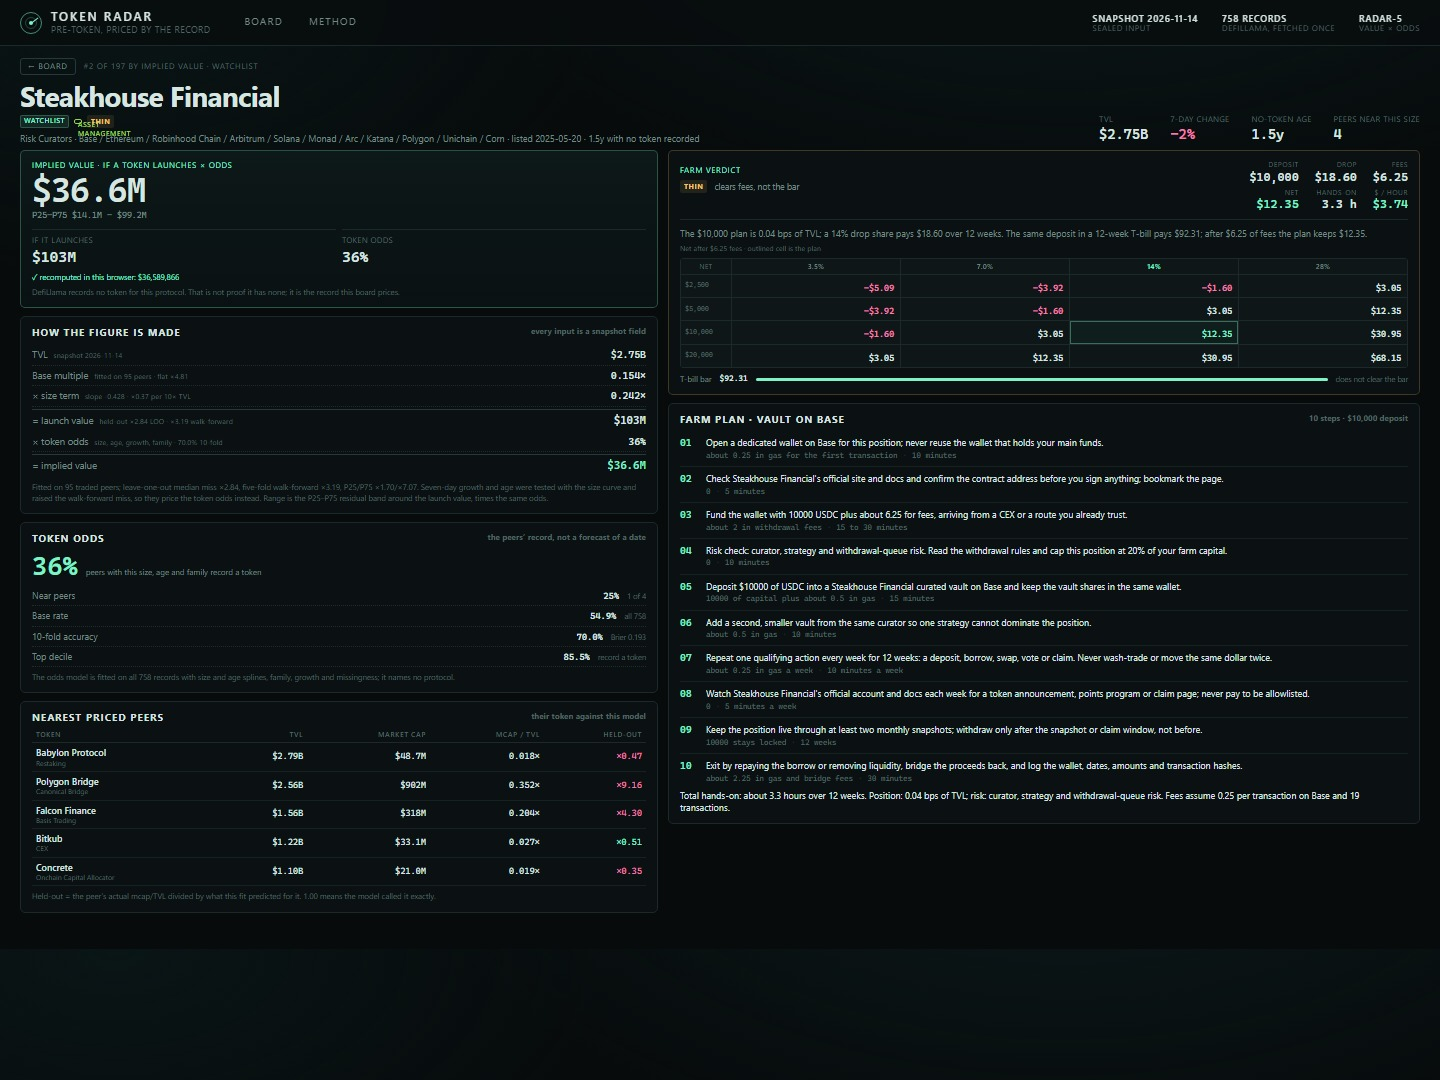
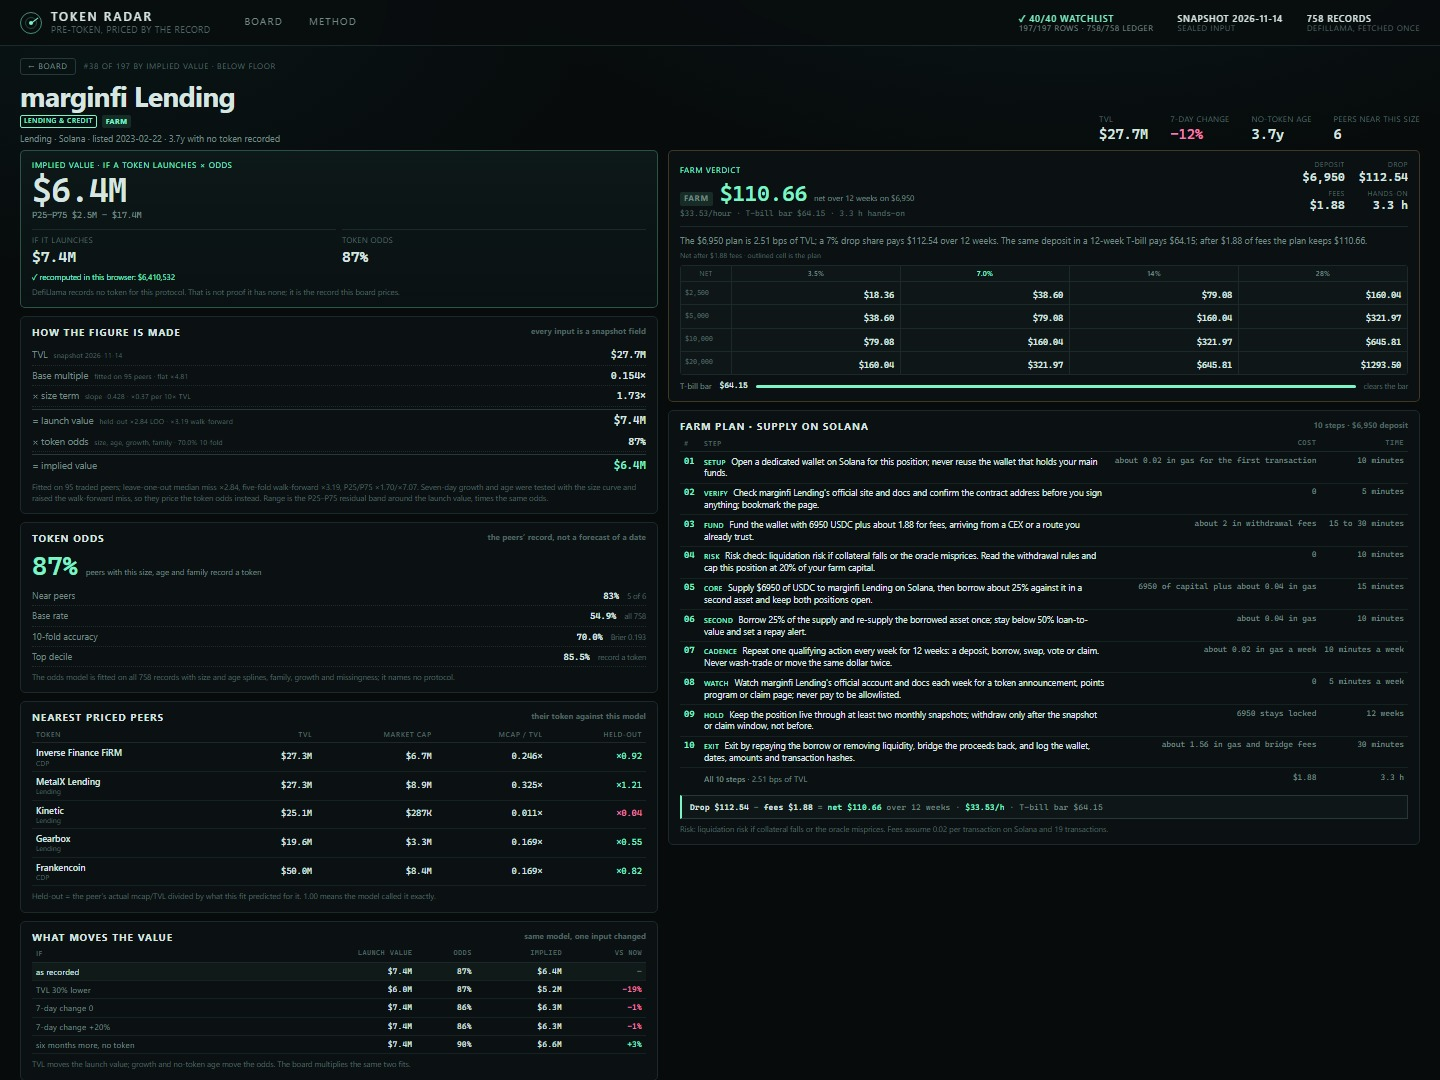
Radar-5: farm headline, costed step table, input sensitivity, full model in the dossier

diff --git a/dashboard/radar.js b/dashboard/radar.js
@@ -163,15 +163,24 @@ function topbar() {
     ),
     el('nav', { class: 'tabs', role: 'tablist', 'aria-label': 'Views' }, tab('board', 'Board'), tab('method', 'Method')),
     el('div', { class: 'top-meta' },
+      el('div', { class: 'proof' }, el('b', { text: '✓ 40/40 WATCHLIST' }), el('span', { text: `${D.counts.rows}/${D.counts.rows} rows · ${D.ledger.total}/${D.ledger.total} ledger` })),
       el('div', null, el('b', { text: 'SNAPSHOT ' + D.meta.as_of }), el('span', { text: 'sealed input' })),
-      el('div', null, el('b', { text: D.meta.protocols + ' RECORDS' }), el('span', { text: 'DefiLlama, fetched once' })),
-      el('div', null, el('b', { text: D.meta.model_version.toUpperCase() }), el('span', { text: 'value × odds' }))
+      el('div', null, el('b', { text: D.meta.protocols + ' RECORDS' }), el('span', { text: 'DefiLlama, fetched once' }))
     )
   );
 }
 
 function kpi(v, l, s, tone) {
   return el('div', { class: 'kpi ' + (tone || '') }, el('b', { text: v }), el('span', { text: l }), el('em', { text: s }));
+}
+
+function formulaBar() {
+  return el('div', { class: 'formula-bar' },
+    el('b', { text: 'IMPLIED VALUE' }), ' = TVL × ', el('b', { text: 'fitted launch multiple' }),
+    el('span', { text: 'what a launch would be worth per dollar of TVL' }), ' × ', el('b', { text: 'token odds' }),
+    el('span', { text: 'how often peers this size, age and family record one' }),
+    el('em', { text: 'both fitted on this snapshot · no protocol name in the path' })
+  );
 }
 
 function sizeScatter() {
@@ -221,7 +230,7 @@ function hero() {
       kpi('×' + v.loo.median.toFixed(2), 'beats a flat multiple?', `flat ×${v.terms[0].loo.toFixed(2)} LOO · walk-forward ×${v.holdout.median.toFixed(2)}`),
       kpi(pct1(o.cv.accuracy), 'do odds beat base?', `base ${pct1(o.base_rate)} · Brier ${o.cv.brier.toFixed(3)} vs ${(o.base_rate * (1 - o.base_rate)).toFixed(3)}`),
       kpi(String(farms.FARM), 'worth farming now?', `of ${D.counts.rows} · every row has a 10-step plan`, 'mint'),
-      kpi(String(D.ledger.total), 'every record accounted for?', `${D.counts.rows} ranked · ${D.ledger.total - D.counts.rows} set aside`)
+      kpi(String(D.ledger.total), 'every record counted?', `${D.counts.rows} ranked · ${D.ledger.total - D.counts.rows} set aside`)
     )
   );
 }
@@ -322,7 +331,7 @@ function filters() {
     el('div', { class: 'field search' }, el('span', { text: 'search' }), q),
     el('div', { class: 'field' }, el('span', { text: 'category' }), cat),
     el('div', { class: 'field' }, el('span', { text: 'chain' }), chain),
-    pick('size', [0, 2500, 5000, 10000, 20000], state.size, (v) => (v ? '$' + v / 1000 + 'K' : 'auto'), (v) => ({ size: v, detail: null })),
+    pick('deposit', [0, 2500, 5000, 10000, 20000], state.size, (v) => (v ? '$' + v / 1000 + 'K' : '2.5 bps'), (v) => ({ size: v, detail: null })),
     pick('drop', [0.035, 0.07, 0.14, 0.28], state.share, (v) => (v * 100).toFixed(v < 0.1 ? 1 : 0) + '%', (v) => ({ share: v, detail: null })),
     reset,
     el('div', { class: 'filter-count' }, el('b', { text: String(rows.length) }), ` of ${D.rows.length} rows · ${usd(rows.reduce((s, r) => s + r.tvl_usd, 0))} TVL · ${usd(rows.reduce((s, r) => s + r.implied_value_usd, 0))} implied`)
@@ -375,6 +384,37 @@ function actionLabel(r) {
   return 'Deposit';
 }
 
+const STEP_LABEL = ['Setup', 'Verify', 'Fund', 'Risk', 'Core', 'Second', 'Cadence', 'Watch', 'Hold', 'Exit'];
+
+function sensitivityCard(r) {
+  const cases = [
+    ['as recorded', {}],
+    ['TVL 30% lower', { tvl_usd: r.tvl_usd * 0.7 }],
+    ['7-day change 0', { change_7d: 0 }],
+    ['7-day change +20%', { change_7d: 0.2 }],
+    ['six months more, no token', { age_days: (r.age_days || 0) + 183 }],
+  ];
+  const base = r.implied_value_usd;
+  return el('section', { class: 'card' },
+    el('h2', null, 'What moves the value', el('span', { text: 'same model, one input changed' })),
+    el('table', { class: 'sens' },
+      el('thead', null, el('tr', null, el('th', { text: 'If' }), el('th', { class: 'num', text: 'Launch value' }), el('th', { class: 'num', text: 'Odds' }), el('th', { class: 'num', text: 'Implied' }), el('th', { class: 'num', text: 'vs now' }))),
+      el('tbody', null, cases.map(([label, patch], i) => {
+        const v = rebuildValue({ ...r, ...patch }, D);
+        const delta = i ? v.implied_value_usd / base - 1 : 0;
+        return el('tr', { class: i ? '' : 'now' },
+          el('td', { text: label }),
+          el('td', { class: 'num', text: usd(v.launch_value_usd) }),
+          el('td', { class: 'num', text: pct0(v.odds) }),
+          el('td', { class: 'num', text: usd(v.implied_value_usd) }),
+          el('td', { class: 'num ' + (delta > 0 ? 'pos' : delta < 0 ? 'neg' : 'flat'), text: i ? (delta > 0 ? '+' : '') + (delta * 100).toFixed(0) + '%' : '—' })
+        );
+      }))
+    ),
+    el('p', { class: 'fine', text: 'TVL moves the launch value; growth and no-token age move the odds. The board multiplies the same two fits.' })
+  );
+}
+
 function table(rows) {
   const tbody = el('tbody');
   rows.forEach((r) => {
@@ -382,7 +422,7 @@ function table(rows) {
     const tr = el('tr', { tabindex: '0', 'data-slug': r.slug, onclick: () => openDetail(r.slug), onkeydown: (e) => { if (e.key === 'Enter' || e.key === ' ') { e.preventDefault(); openDetail(r.slug); } } },
       el('td', { class: 'rk' }, el('b', { text: String(r.rank).padStart(2, '0') })),
       el('td', { class: 'proto' },
-        el('div', { class: 'pname' }, el('i', { class: 'fam', style: `background:${color(r.category)}`, title: r.family }), el('b', { text: r.name }),
+        el('div', { class: 'pname' }, el('i', { class: 'famdot', style: `background:${color(r.category)}`, title: r.family }), el('b', { text: r.name }),
           r.watchlist ? el('em', { class: 'badge w', text: 'W', title: 'On the 40-protocol watchlist' }) : null,
           r.off_list ? el('em', { class: 'badge off', text: 'OFF', title: 'Above the $50M floor but off-list: DefiLlama records a parent protocol' }) : null
         ),
@@ -415,10 +455,10 @@ function table(rows) {
         sortTh('launch', 'If launches', true),
         sortTh('implied', 'Implied value', true),
         el('th', { class: 'num', text: 'P25–P75' }),
-        sortTh('deposit', 'Plan size', true),
+        sortTh('deposit', 'Farm plan', true),
         sortTh('drop', 'Drop', true),
-        sortTh('net', 'Net', true),
-        sortTh('hourly', '$ / hour', true),
+        sortTh('net', 'Net of fees', true),
+        sortTh('hourly', 'Net / hour', true),
         sortTh('verdict', 'Verdict', true)
       )),
       tbody
@@ -445,7 +485,7 @@ function integrity() {
 }
 
 function boardView() {
-  return el('main', { class: 'floor' }, hero(), ledger(), integrity(), evidence(),
+  return el('main', { class: 'floor' }, hero(), formulaBar(), ledger(), integrity(), evidence(),
     el('div', { class: 'control-block' }, tabsRow(), filters()),
     table(sorted(filtered())));
 }
@@ -549,14 +589,16 @@ function detailView() {
 
   const farmCard = el('section', { class: 'card farm-card' },
     el('div', { class: 'farm-top' },
-      el('div', null, el('span', { class: 'card-tag', text: 'FARM VERDICT' }), el('div', { class: 'farm-verdict' }, verdict(c.verdict), el('span', { text: c.verdict === 'FARM' ? 'worth the time at this size' : c.verdict === 'THIN' ? 'clears fees, not the bar' : 'the drop does not clear fees' }))),
+      el('div', null,
+        el('span', { class: 'card-tag', text: 'FARM VERDICT' }),
+        el('div', { class: 'farm-headline' }, verdict(c.verdict), el('b', { class: cls(c.net_usd), text: money2(c.net_usd) }), el('span', { text: `net over ${c.weeks} weeks on ${exact(c.deposit_usd)}` })),
+        el('div', { class: 'farm-sub' }, `${money2(c.per_hour_usd)}/hour · T-bill bar ${money2(c.bar_usd)} · ${c.hours.toFixed(1)} h hands-on`)
+      ),
       el('div', { class: 'farm-kpis' },
         el('div', null, el('span', { text: 'Deposit' }), el('b', { text: exact(c.deposit_usd) })),
         el('div', null, el('span', { text: 'Drop' }), el('b', { text: money2(c.drop_usd) })),
         el('div', null, el('span', { text: 'Fees' }), el('b', { text: money2(c.costs_usd) })),
-        el('div', null, el('span', { text: 'Net' }), el('b', { class: cls(c.net_usd), text: money2(c.net_usd) })),
-        el('div', null, el('span', { text: 'Hands-on' }), el('b', { text: c.hours.toFixed(1) + ' h' })),
-        el('div', null, el('span', { text: '$ / hour' }), el('b', { class: cls(c.per_hour_usd), text: money2(c.per_hour_usd) }))
+        el('div', null, el('span', { text: 'Hands-on' }), el('b', { text: c.hours.toFixed(1) + ' h' }))
       )
     ),
     el('div', { class: 'farm-body' },
@@ -576,19 +618,35 @@ function detailView() {
 
   const steps = el('section', { class: 'card steps' },
     el('h2', null, `Farm plan · ${actionLabel(r)} on ${r.chains[0] || 'mainnet'}`, el('span', { text: `10 steps · ${exact(c.deposit_usd)} deposit` })),
-    el('ol', null, c.steps.map((s, i) => {
-      const m = s.match(/^(.*?)\s*Cost:\s*(.*?)\.?\s*Time:\s*(.*?)\.?$/);
-      return el('li', null,
-        el('b', { class: 'n', text: String(i + 1).padStart(2, '0') }),
-        el('div', null, el('p', { text: m ? m[1] : s }), m ? el('div', { class: 'meta' }, el('span', { text: m[2] }), el('i', { text: '·' }), el('span', { text: m[3] })) : null)
-      );
-    })),
-    el('p', { class: 'fine', text: `Total hands-on: about ${c.hours} hours over ${c.weeks} weeks. Position: ${(c.share * 1e4).toFixed(2)} bps of TVL; risk: ${c.risk}. Fees assume ${c.gas_usd} per transaction on ${r.chains[0] || 'the main chain'} and ${MODEL.farm_gas_txs} transactions.` })
+    el('table', { class: 'plan-table' },
+      el('thead', null, el('tr', null, el('th', { text: '#' }), el('th', { text: 'Step' }), el('th', { class: 'num', text: 'Cost' }), el('th', { class: 'num', text: 'Time' }))),
+      el('tbody', null, c.steps.map((s, i) => {
+        const m = s.match(/^(.*?)\s*Cost:\s*(.*?)\.?\s*Time:\s*(.*?)\.?$/);
+        return el('tr', null,
+          el('td', { class: 'n', text: String(i + 1).padStart(2, '0') }),
+          el('td', null, el('b', { class: 'step-tag', text: STEP_LABEL[i] || 'Step' }), ' ', m ? m[1] : s),
+          el('td', { class: 'num', text: m ? m[2] : '—' }),
+          el('td', { class: 'num', text: m ? m[3] : '—' })
+        );
+      })),
+      el('tfoot', null, el('tr', null,
+        el('td', null),
+        el('td', null, el('b', { text: `All ${c.steps.length} steps` }), ` · ${(c.share * 1e4).toFixed(2)} bps of TVL`),
+        el('td', { class: 'num', text: money2(c.costs_usd) }),
+        el('td', { class: 'num', text: c.hours.toFixed(1) + ' h' })
+      ))
+    ),
+    el('div', { class: 'plan-eq' },
+      el('b', { text: `Drop ${money2(c.drop_usd)}` }), ' − ', el('b', { text: `fees ${money2(c.costs_usd)}` }), ' = ',
+      el('b', { class: cls(c.net_usd), text: `net ${money2(c.net_usd)}` }), ` over ${c.weeks} weeks · `,
+      el('b', { class: cls(c.per_hour_usd), text: `${money2(c.per_hour_usd)}/h` }), ` · T-bill bar ${money2(c.bar_usd)}`
+    ),
+    el('p', { class: 'fine', text: `Risk: ${c.risk}. Fees assume ${c.gas_usd} per transaction on ${r.chains[0] || 'the main chain'} and ${MODEL.farm_gas_txs} transactions.` })
   );
 
   return el('main', { class: 'floor detail' }, head,
     el('div', { class: 'd-grid' },
-      el('div', { class: 'd-col' }, valueCard, how, oddsCard, peers),
+      el('div', { class: 'd-col' }, valueCard, how, oddsCard, peers, sensitivityCard(r)),
       el('div', { class: 'd-col' }, farmCard, steps)
     )
   );

diff --git a/dashboard/style.css b/dashboard/style.css
@@ -67,6 +67,8 @@ em { font-style: normal; }
 .top-meta div { display: flex; flex-direction: column; line-height: 1.15; }
 .top-meta b { font-size: 9px; letter-spacing: .08em; }
 .top-meta span { font-size: 8px; color: var(--dim); text-transform: uppercase; letter-spacing: .07em; }
+.top-meta .proof b { color: var(--mint); }
+.top-meta .proof span { color: var(--mut); }
 
 .floor { max-width: 1440px; margin: 0 auto; padding: 0 20px 10px; }
 
@@ -78,10 +80,20 @@ em { font-style: normal; }
 .hero p { margin: 6px 0 0; font-size: 10px; line-height: 1.45; color: var(--mut); max-width: 430px; }
 .kpis { display: grid; grid-template-columns: repeat(6, 1fr); gap: 1px; background: var(--line); border: 1px solid var(--line); border-radius: 6px; overflow: hidden; }
 .kpi { background: linear-gradient(180deg, #0d1617, #0a1011); padding: 8px 9px 7px; min-width: 0; }
-.kpi b { display: block; font: 600 18px/1.05 var(--mono); letter-spacing: -.02em; color: var(--txt); white-space: nowrap; }
-.kpi span { display: block; font-size: 8px; letter-spacing: .09em; text-transform: uppercase; color: var(--mut); margin-top: 4px; white-space: nowrap; overflow: hidden; text-overflow: ellipsis; }
-.kpi em { display: block; font-size: 7.5px; color: var(--dim); margin-top: 2px; white-space: nowrap; overflow: hidden; text-overflow: ellipsis; }
+.kpi b { display: block; font: 600 22px/1.05 var(--mono); letter-spacing: -.02em; color: var(--txt); white-space: nowrap; }
+.kpi span { display: block; font-size: 8.4px; letter-spacing: .09em; text-transform: uppercase; color: var(--mut); margin-top: 5px; white-space: nowrap; overflow: hidden; text-overflow: ellipsis; }
+.kpi em { display: block; font-size: 7.7px; color: var(--dim); margin-top: 2px; white-space: nowrap; overflow: hidden; text-overflow: ellipsis; }
 .kpi.mint b { color: var(--mint); }
+
+.formula-bar {
+  display: flex; flex-wrap: wrap; align-items: baseline; gap: 4px;
+  margin: 0 0 8px; padding: 6px 9px; border: 1px solid var(--line); border-left: 2px solid var(--mint);
+  border-radius: 4px; background: linear-gradient(90deg, rgba(125, 243, 198, .06), transparent 62%), var(--panel);
+  font: 8.6px var(--mono); color: var(--mut);
+}
+.formula-bar b { color: var(--txt); font-weight: 600; }
+.formula-bar span { color: var(--dim); }
+.formula-bar em { margin-left: auto; color: var(--dim); font-style: normal; }
 
 /* ---------------------------------------------------------------- ledger */
 .ledger { margin: 3px 0 8px; }
@@ -188,8 +200,8 @@ table.board td.rk b { color: var(--mut); font-weight: 500; }
 table.board td.proto { white-space: normal; max-width: 250px; }
 .pname { display: flex; align-items: center; gap: 4px; line-height: 1.2; }
 .pname b { font-size: 10.5px; font-weight: 600; color: var(--txt); overflow: hidden; text-overflow: ellipsis; white-space: nowrap; max-width: 188px; }
-.fam { width: 5px; height: 5px; border-radius: 50%; flex: none; }
-.badge { font-size: 6.8px; letter-spacing: .08em; text-transform: uppercase; padding: 1px 3px; border-radius: 2px; font-weight: 600; line-height: 1.3; }
+.famdot { width: 5px; height: 5px; border-radius: 50%; flex: none; }
+.badge { font-size: 6.8px; letter-spacing: .08em; text-transform: uppercase; padding: 1px 3px; border-radius: 2px; font-weight: 600; line-height: 1.3; white-space: nowrap; flex: none; }
 .badge.w { color: var(--mint); background: rgba(125, 243, 198, .1); border: 1px solid rgba(125, 243, 198, .25); }
 .badge.off { color: var(--amber); background: rgba(244, 194, 106, .08); border: 1px solid rgba(244, 194, 106, .25); }
 .badge.fam { border: 1px solid currentColor; background: transparent; }
@@ -277,7 +289,11 @@ table.peers td em { display: block; font-size: 7px; color: var(--dim); }
 .farm-top { display: flex; justify-content: space-between; gap: 14px; align-items: flex-start; }
 .farm-verdict { display: flex; align-items: center; gap: 7px; margin-top: 4px; }
 .farm-verdict > span:last-child { font-size: 8.5px; color: var(--mut); }
-.farm-kpis { display: grid; grid-template-columns: repeat(3, auto); gap: 4px 16px; }
+.farm-headline { display: flex; align-items: baseline; gap: 7px; margin-top: 5px; }
+.farm-headline > b { font: 600 22px var(--mono); letter-spacing: -.02em; }
+.farm-headline > span { font-size: 8px; color: var(--mut); }
+.farm-sub { margin-top: 3px; font: 8px var(--mono); color: var(--dim); }
+.farm-kpis { display: grid; grid-template-columns: repeat(2, auto); gap: 5px 14px; }
 .farm-kpis div { display: flex; flex-direction: column; align-items: flex-end; }
 .farm-kpis span { font-size: 7px; text-transform: uppercase; letter-spacing: .07em; color: var(--dim); }
 .farm-kpis b { font: 600 12px var(--mono); }
@@ -310,13 +326,24 @@ table.peers td em { display: block; font-size: 7px; color: var(--dim); }
 .tbill em { color: var(--dim); font-size: 7.5px; }
 
 /* ---------------------------------------------------------------- steps */
-.steps ol { list-style: none; margin: 0; padding: 0; }
-.steps li { display: flex; gap: 8px; padding: 5px 0; border-bottom: 1px solid rgba(27, 41, 42, .7); }
-.steps li:last-child { border-bottom: 0; }
-.steps .n { font: 600 10px var(--mono); color: var(--mint); padding-top: 1px; flex: none; width: 18px; }
-.steps p { margin: 0; font-size: 9px; line-height: 1.4; color: var(--txt); }
-.steps .meta { display: flex; gap: 5px; margin-top: 2px; font-size: 7.6px; color: var(--dim); font-family: var(--mono); }
-.steps .meta i { font-style: normal; color: var(--line2); }
+table.plan-table { width: 100%; border-collapse: collapse; font-size: 8.7px; }
+table.plan-table th { padding: 0 4px 3px; font-size: 7px; font-weight: 500; letter-spacing: .08em; text-transform: uppercase; color: var(--dim); text-align: left; border-bottom: 1px solid var(--line); }
+table.plan-table th.num { text-align: right; }
+table.plan-table td { padding: 3.5px 4px; border-bottom: 1px solid rgba(27, 41, 42, .7); vertical-align: top; line-height: 1.35; color: var(--txt); }
+table.plan-table td.n { width: 20px; color: var(--mint); font: 600 9px var(--mono); }
+table.plan-table td.num { white-space: nowrap; text-align: right; font: 8px var(--mono); color: var(--mut); }
+table.plan-table .step-tag { display: inline-block; margin-right: 3px; font-size: 6.6px; letter-spacing: .08em; text-transform: uppercase; color: var(--mint); }
+table.plan-table tfoot td { padding-top: 5px; border-top: 1px solid var(--line2); border-bottom: 0; font-family: var(--mono); font-size: 8.2px; color: var(--txt); }
+table.plan-table tfoot td:nth-child(2) { font-family: inherit; color: var(--mut); }
+.plan-eq { margin-top: 7px; padding: 6px 8px; border: 1px solid var(--line2); border-left: 2px solid var(--mint); background: var(--panel2); font: 8.4px var(--mono); color: var(--mut); }
+.plan-eq b { color: var(--txt); }
+
+table.sens { width: 100%; border-collapse: collapse; font-size: 8.4px; }
+table.sens th { padding: 0 4px 3px; font-size: 6.8px; font-weight: 500; letter-spacing: .08em; text-transform: uppercase; color: var(--dim); text-align: left; border-bottom: 1px solid var(--line); }
+table.sens th.num { text-align: right; }
+table.sens td { padding: 3px 4px; border-bottom: 1px solid rgba(27, 41, 42, .7); color: var(--mut); }
+table.sens td.num { text-align: right; font-family: var(--mono); color: var(--txt); }
+table.sens tr.now td { color: var(--txt); background: rgba(125, 243, 198, .04); }
 
 /* ---------------------------------------------------------------- method */
 .m-head { padding: 18px 0 12px; max-width: 840px; }

diff --git a/dashboard/index.html b/dashboard/index.html
@@ -11,6 +11,6 @@
 <div id="app" aria-busy="true"></div>
 <script src="../data.js"></script>
 <script src="model.js"></script>
-<script src="app.js"></script>
+<script src="radar.js"></script>
 </body>
 </html>
